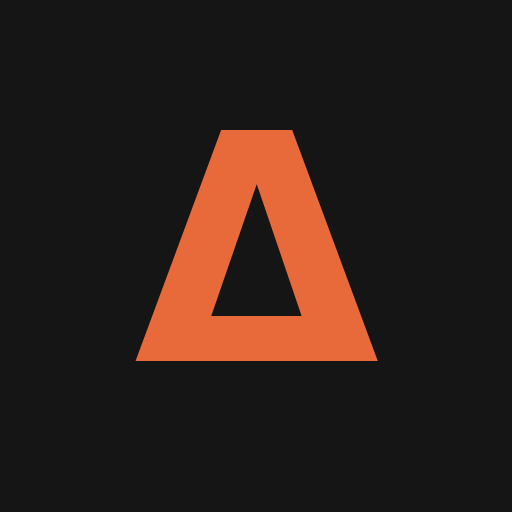
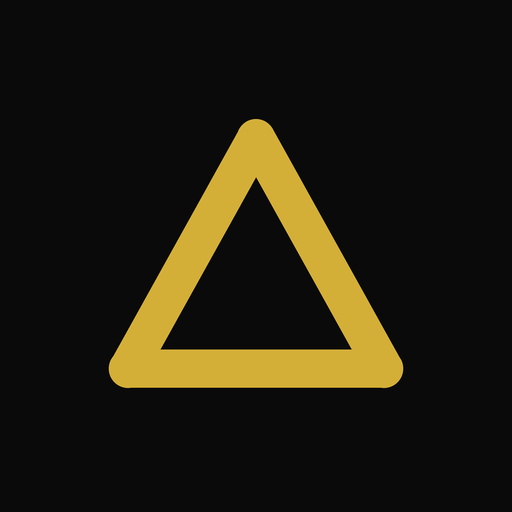
Design nero e oro nell'app web: icone, colori di sistema, schermata di accesso con il marchio
Claude-Session: https://claude.ai/code/session_011q36FmoLpkz9fJtyX1Bvjz

Changed region(s): [[0.1875, 0.2188, 0.8125, 0.7812]]

diff --git a/web/cloud.js b/web/cloud.js
@@ -166,7 +166,7 @@
   function esc(s) { return String(s == null ? '' : s).replace(/[&<>"']/g, function (c) { return { '&': '&amp;', '<': '&lt;', '>': '&gt;', '"': '&quot;', "'": '&#39;' }[c]; }); }
   function view() {
     var m = UI.mode, h = '<div class="screen notab" style="justify-content:center;max-width:420px;margin:0 auto;width:100%">'
-      + '<div class="stack" style="gap:6px;margin-bottom:8px"><span class="eyebrow">Delta Coach</span><h1>' + (m === 'signup' ? 'Crea il tuo account' : m === 'reset' ? 'Recupera la password' : m === 'newpw' ? 'Nuova password' : 'Accedi') + '</h1>'
+      + '<div class="row start brand" style="gap:10px;margin-bottom:14px"><span class="brandmark" aria-hidden="true"><svg width="22" height="22" viewBox="0 0 24 24"><path d="M12 3.2 21.6 20.4H2.4Z" fill="none" stroke="currentColor" stroke-width="2.6" stroke-linejoin="round"/></svg></span><span class="brandname">Delta Coach</span></div><div class="stack" style="gap:6px;margin-bottom:8px"><h1>' + (m === 'signup' ? 'Crea il tuo account' : m === 'reset' ? 'Recupera la password' : m === 'newpw' ? 'Nuova password' : 'Accedi') + '</h1>'
       + '<p class="muted" style="margin:0;line-height:1.5">' + (m === 'signup' ? 'Allenamento, alimentazione e progressi, salvati nel tuo account.' : m === 'reset' ? 'Ti mando una mail con il link per sceglierne una nuova.' : m === 'newpw' ? 'Scegli la nuova password per il tuo account.' : 'Entra con la tua email e la tua password.') + '</p></div>'
       + '<form id="dcauth" class="card" style="gap:12px" novalidate>';
     if (m !== 'newpw') h += '<div class="field"><label for="dc-e">Email</label><input id="dc-e" name="email" type="email" class="input" autocomplete="email" required value="' + esc(UI.email || '') + '"></div>';

diff --git a/web/index.html b/web/index.html
@@ -3,7 +3,8 @@
 <head>
 <meta charset="utf-8">
 <meta name="viewport" content="width=device-width,initial-scale=1,viewport-fit=cover">
-<meta name="theme-color" content="#141514">
+<meta name="theme-color" content="#F2F2EF" media="(prefers-color-scheme: light)">
+<meta name="theme-color" content="#0A0A0A" media="(prefers-color-scheme: dark)">
 <meta name="description" content="Delta Coach: allenamento, alimentazione, abitudini e progressi con il tuo personal trainer.">
 <meta name="apple-mobile-web-app-capable" content="yes">
 <meta name="mobile-web-app-capable" content="yes">

diff --git a/tools/icons.py b/tools/icons.py
@@ -1,4 +1,4 @@
-"""Icone dell'app (Δ arancione su fondo scuro) per la schermata Home del telefono."""
+"""Icone dell'app (triangolo Δ oro su fondo nero) per la schermata Home del telefono."""
 import os
 from PIL import Image, ImageDraw, ImageFont
 
@@ -6,12 +6,13 @@ WEB = os.path.join(os.path.dirname(os.path.dirname(os.path.abspath(__file__))), 
 FONT = '/usr/share/fonts/truetype/dejavu/DejaVuSans-Bold.ttf'
 
 def icon(size, pad=0.0):
-    im = Image.new('RGB', (size, size), '#141514'); d = ImageDraw.Draw(im)
-    s = size * (1 - 2 * pad); ox = oy = size * pad
-    f = ImageFont.truetype(FONT, int(s * 0.62))
-    box = d.textbbox((0, 0), 'Δ', font=f); w, h = box[2] - box[0], box[3] - box[1]
-    d.text((ox + (s - w) / 2 - box[0], oy + (s - h) / 2 - box[1] - s * 0.02), 'Δ', font=f, fill='#E86A3A')
-    return im
+    k = 4; S = size * k; im = Image.new('RGB', (S, S), '#0A0A0A'); d = ImageDraw.Draw(im)
+    s = S * (1 - 2 * pad); o = S * pad; cx = o + s / 2; w = s * 0.50; h = w * 0.90; top = o + s * 0.27
+    pts = [(cx, top), (cx + w / 2, top + h), (cx - w / 2, top + h)]
+    d.line(pts + [pts[0], pts[1]], fill='#D4AF37', width=int(s * 0.075), joint='curve')
+    r = s * 0.0375
+    for x, y in pts: d.ellipse((x - r, y - r, x + r, y + r), fill='#D4AF37')
+    return im.resize((size, size), Image.LANCZOS)
 
 icon(192).save(os.path.join(WEB, 'icon-192.png'))
 icon(512).save(os.path.join(WEB, 'icon-512.png'))

diff --git a/tools/build.py b/tools/build.py
@@ -49,7 +49,8 @@ build = hashlib.sha1(app.encode('utf-8')).hexdigest()[:10]
 head_extra = (
     '<meta charset="utf-8">\n'
     '<meta name="viewport" content="width=device-width,initial-scale=1,viewport-fit=cover">\n'
-    '<meta name="theme-color" content="#141514">\n'
+    '<meta name="theme-color" content="#F2F2EF" media="(prefers-color-scheme: light)">\n'
+    '<meta name="theme-color" content="#0A0A0A" media="(prefers-color-scheme: dark)">\n'
     '<meta name="description" content="Delta Coach: allenamento, alimentazione, abitudini e progressi con il tuo personal trainer.">\n'
     '<meta name="apple-mobile-web-app-capable" content="yes">\n'
     '<meta name="mobile-web-app-capable" content="yes">\n'
@@ -72,4 +73,5 @@ html = ('<!doctype html>\n<html lang="it">\n<head>\n' + head_extra + title + '\n
 os.makedirs(WEB, exist_ok=True)
 open(os.path.join(WEB, 'index.html'), 'w', encoding='utf-8').write(html)
 open(os.path.join(WEB, 'app.js'), 'w', encoding='utf-8').write(app)
+open(os.path.join(WEB, 'version.txt'), 'w', encoding='utf-8').write(build + ' ' + (re.search(r'versione di prova (\d+)', src) or [0, '?'])[1] + '\n')
 print('ok · build', build, '· index', len(html), 'B · app.js', len(app), 'B')
